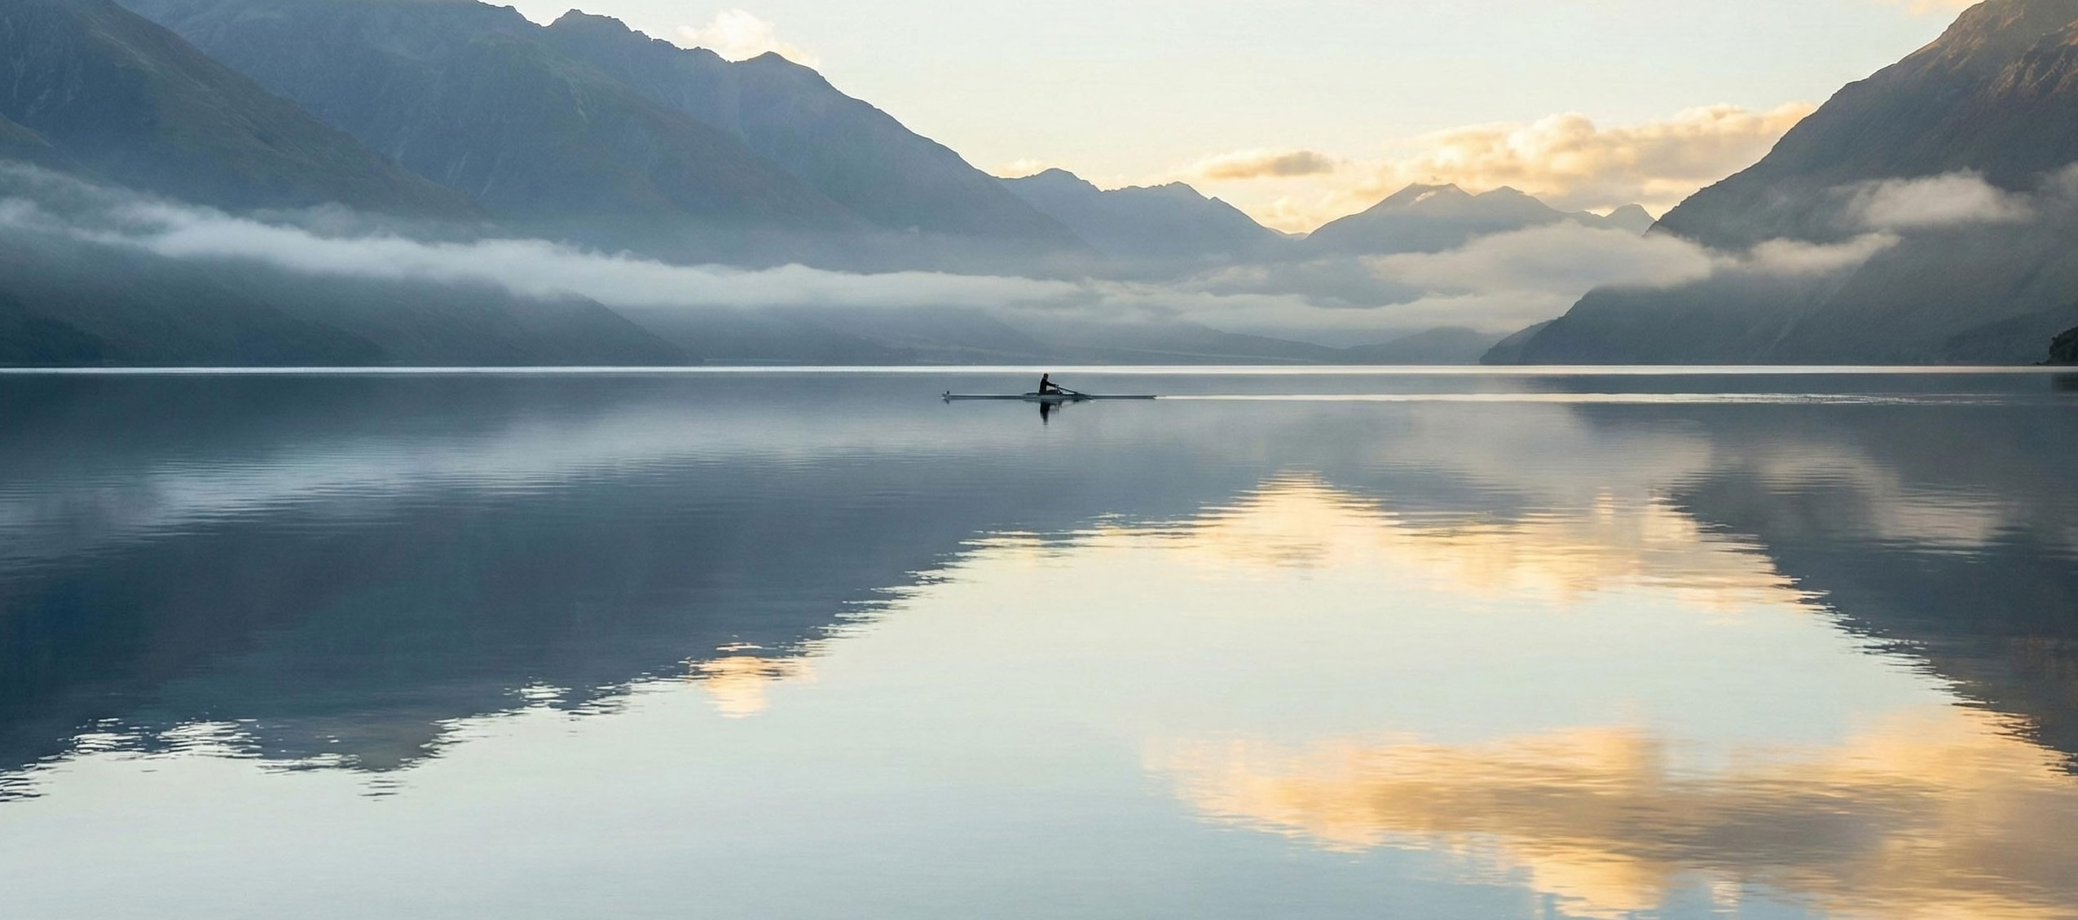
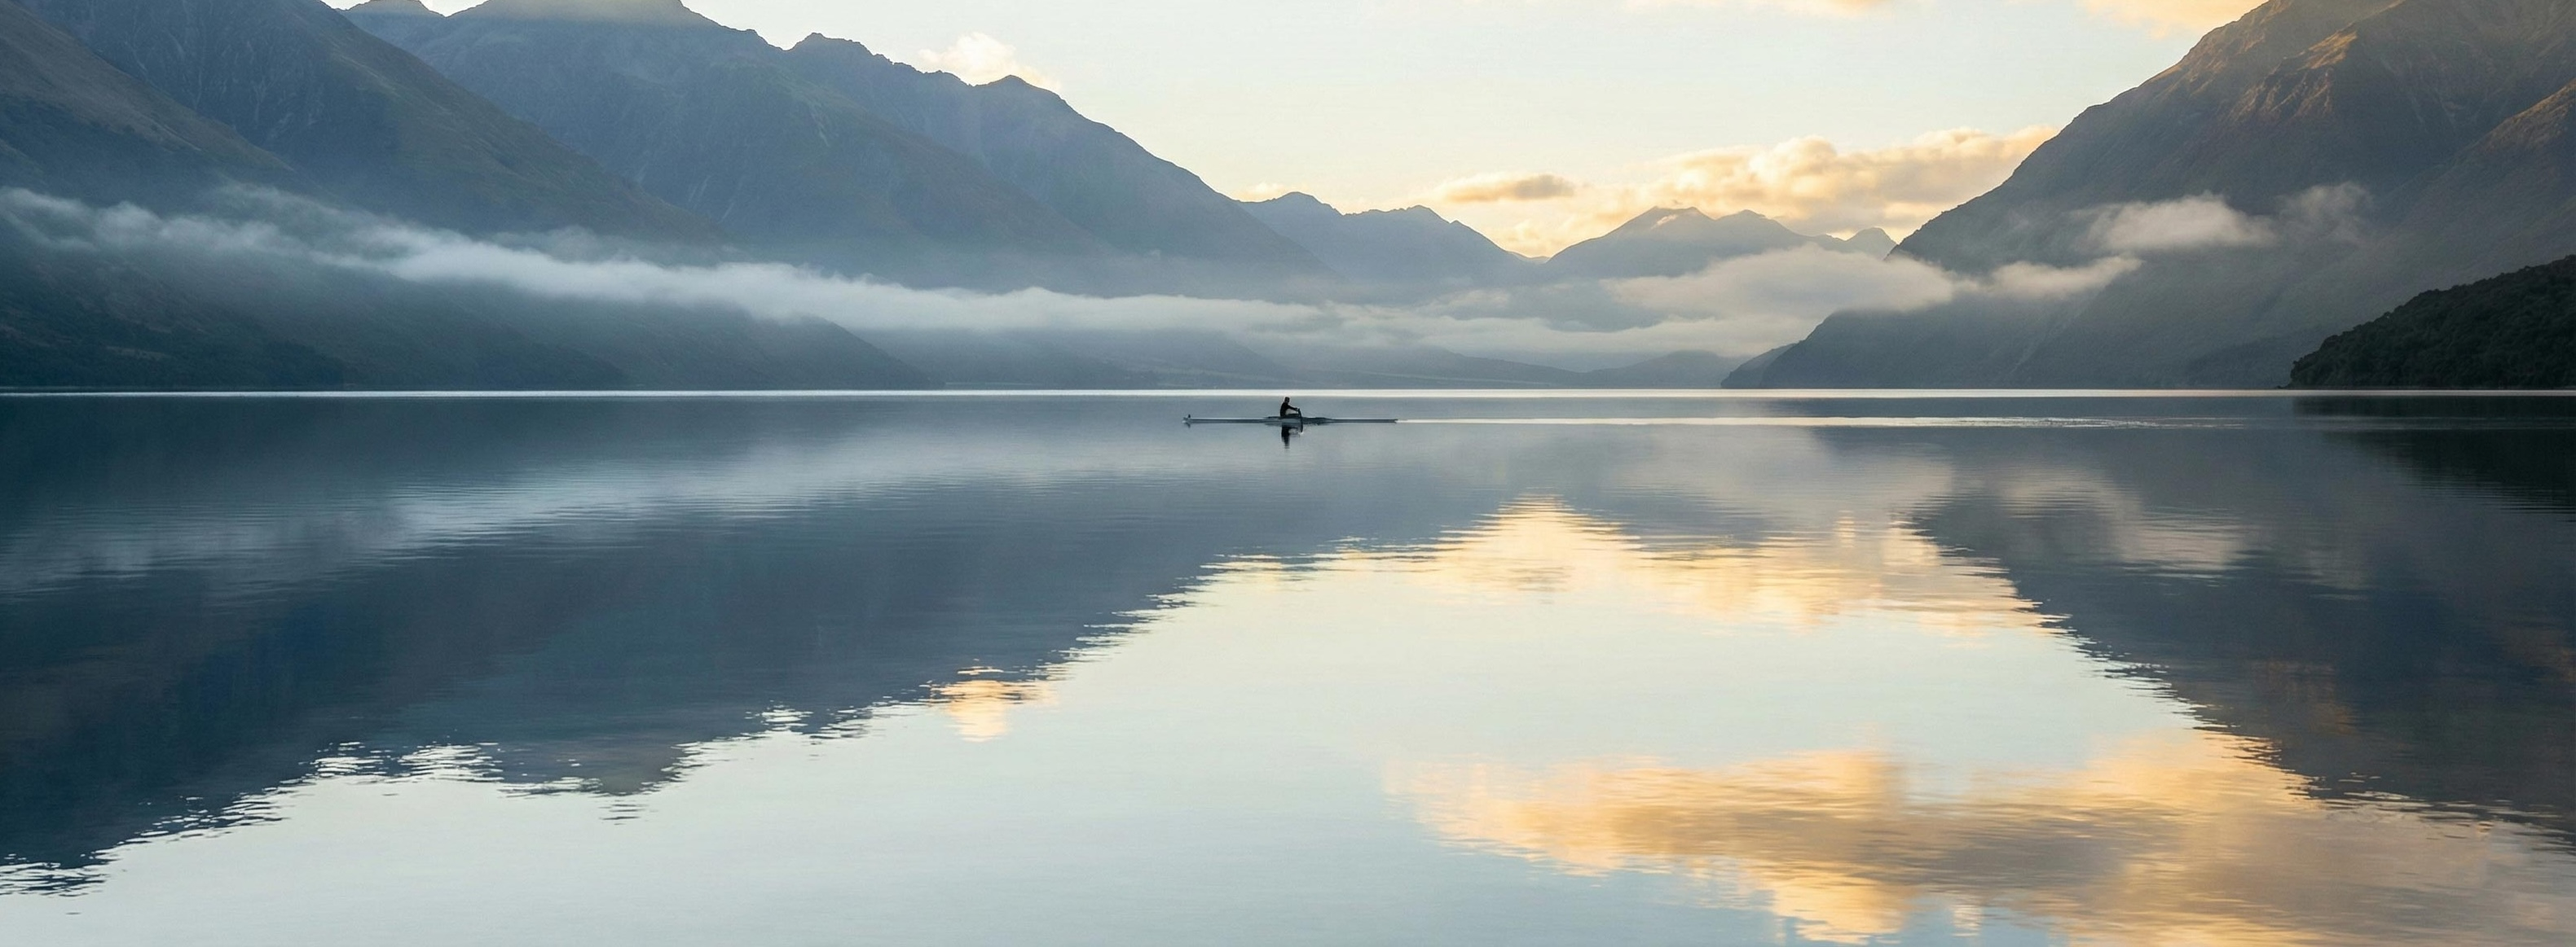
fix background on mobile

diff --git a/css/mobile.css b/css/mobile.css
@@ -76,6 +76,9 @@
   /* Reduce slider padding on mobile */
   #slider {
     padding: 120px 0 150px 0;
+    /* Fix background positioning on mobile - background-attachment: fixed doesn't work properly on iOS */
+    background-attachment: scroll !important;
+    background-position: center center !important;
   }
   
   /* Reduce about section top padding */
